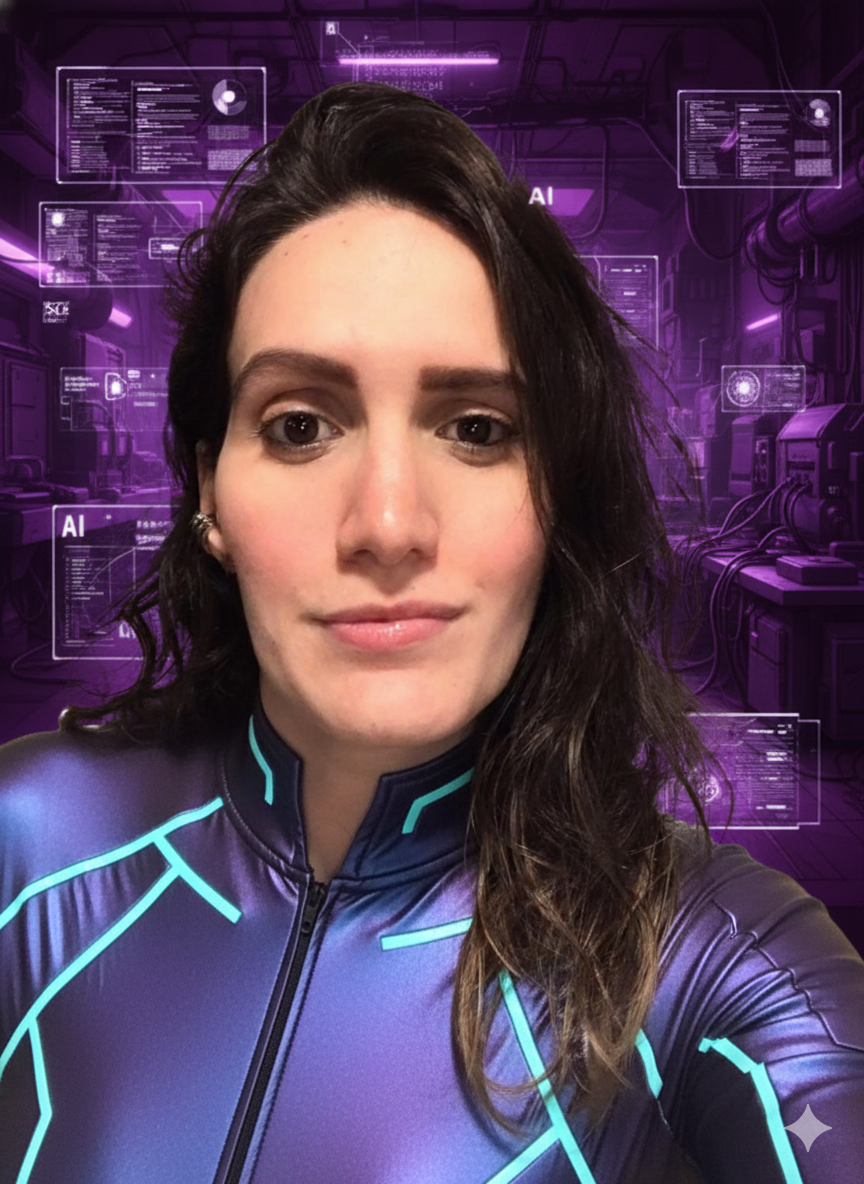
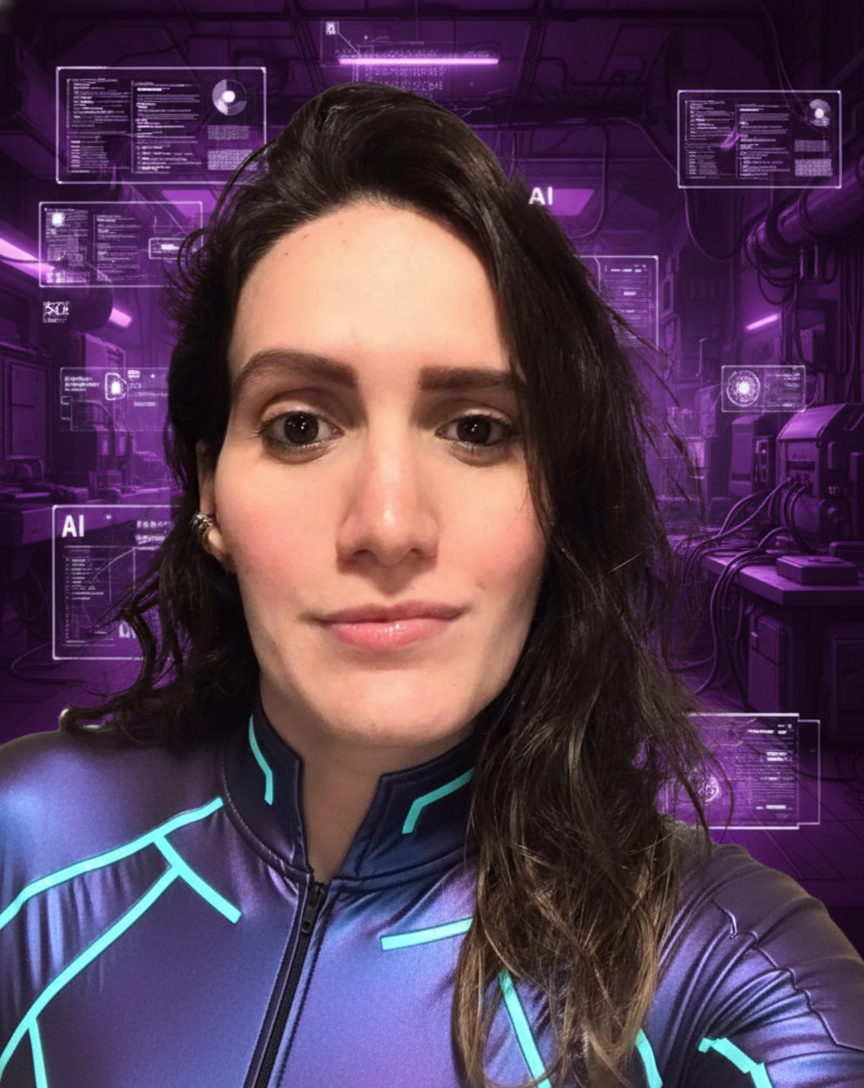
about me and photo updated

diff --git a/index.html b/index.html
@@ -127,31 +127,20 @@
           <div class="informacoes-sobre-mim">
             <p>
               <strong
-                >Olá! Sou Julia Sales, formada em Direito e atualmente em
-                transição de carreira para a área de tecnologia, setor pelo qual
-                sou profundamente apaixonada.</strong
+                >Olá! Sou a Julia Sales, formada em Direito e fiz uma transição de carreira para a área de tecnologia, setor pelo qual sou profundamente apaixonada.</strong
               >
-              Adquiri uma base forte com a tríade HTML, CSS e JS, estou agora em
-              nível júnior, cursando uma formação completa que abrange desde o
-              Frontend até o Backend – atualmente focada em React, TypeScript e
-              TailwindCSS. Busco constantemente novos conhecimentos e
-              experiências que possam ampliar minhas habilidades técnicas e
+              Adquiri uma base forte com a tríade HTML, CSS e JS, estou agora em nível júnior, curso uma formação completa que abrange desde o
+              Frontend até o Backend – atualmente focada em React, TypeScript e TailwindCSS. Busco constantemente novos conhecimentos e experiências que possam ampliar minhas habilidades técnicas e
               criativas.
             </p>
 
             <p>
-              Sou uma pessoa criativa e detalhista, sempre atenta para que cada
-              projeto desenvolvido seja funcional, esteticamente agradável e
-              totalmente responsivo. Além disso, acredito que a tecnologia
-              oferece liberdade e a possibilidade de acompanhar as mudanças que
-              moldam o futuro.
+              Sou uma pessoa criativa e detalhista, sempre atenta para que cada projeto desenvolvido seja funcional, esteticamente agradável e totalmente responsivo. Além disso, acredito que a tecnologia
+              oferece liberdade e a possibilidade de acompanhar as mudanças que moldam o futuro.
             </p>
 
             <p>
-              Fora do mundo do código, adoro teatro, filmes, séries, jogos,
-              viagens, experiências culturais, tais quais visitas a museus,
-              exposições de arte, dentre outros, que também inspiram minha forma
-              de criar.
+              Fora do mundo do código, adoro teatro, filmes, séries, jogos, viagens, contato com a natureza, exposições de artes, dentre outras coisas, que também inspiram minha forma de criar.
             </p>
 
             <div class="botoes">
